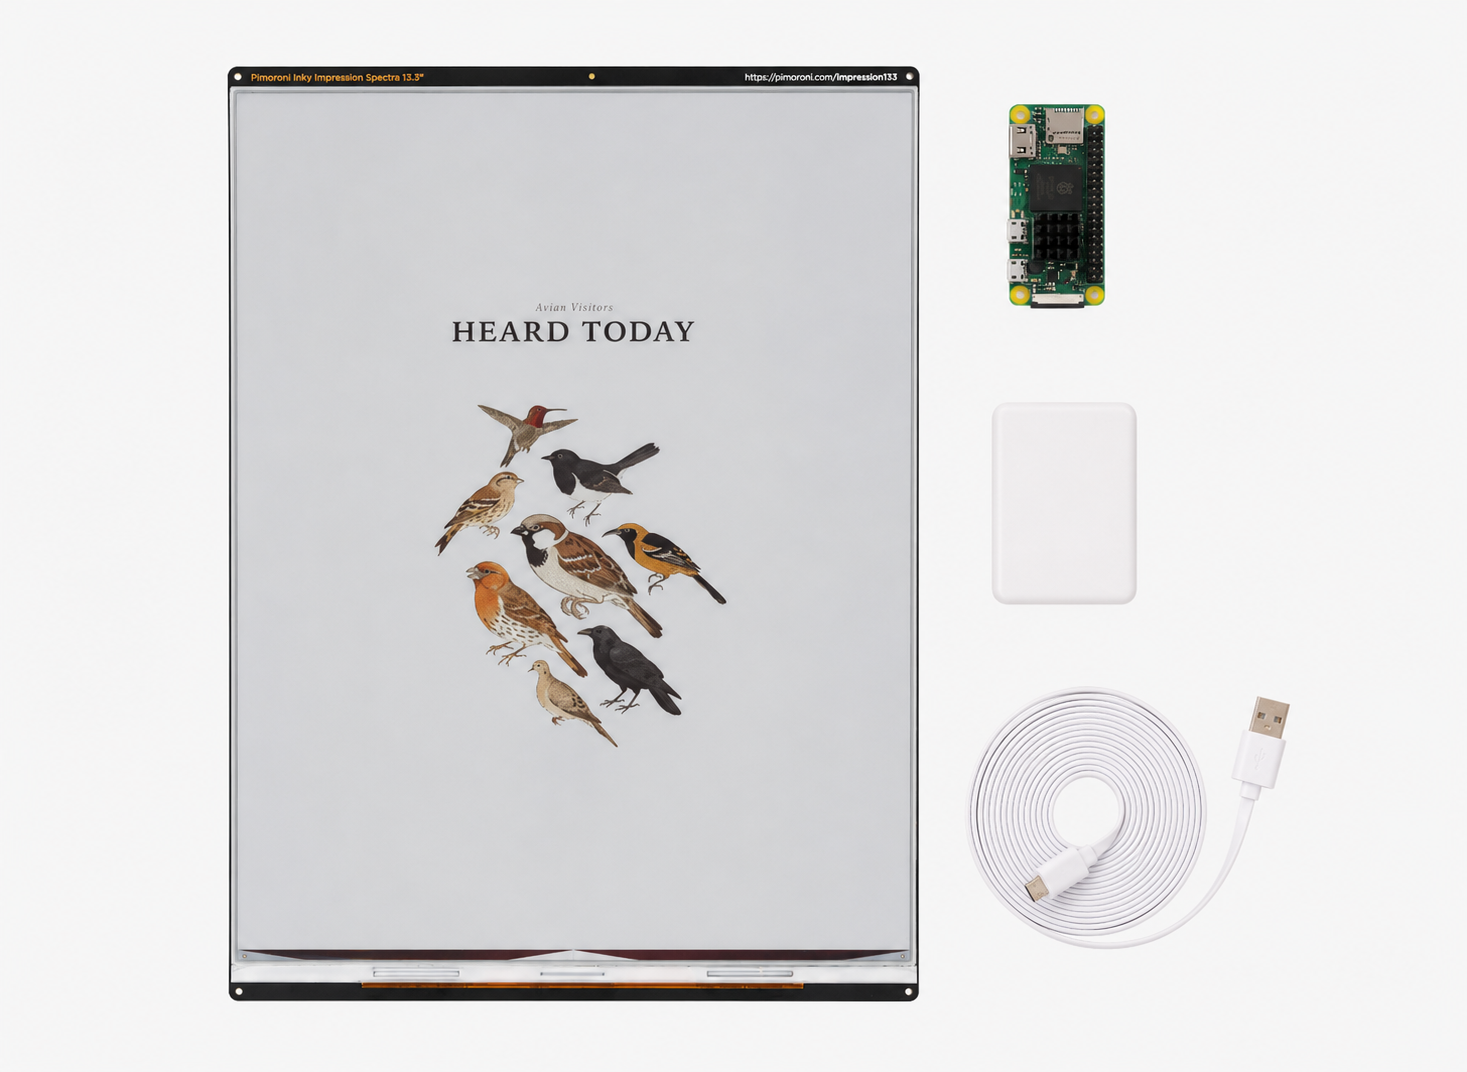
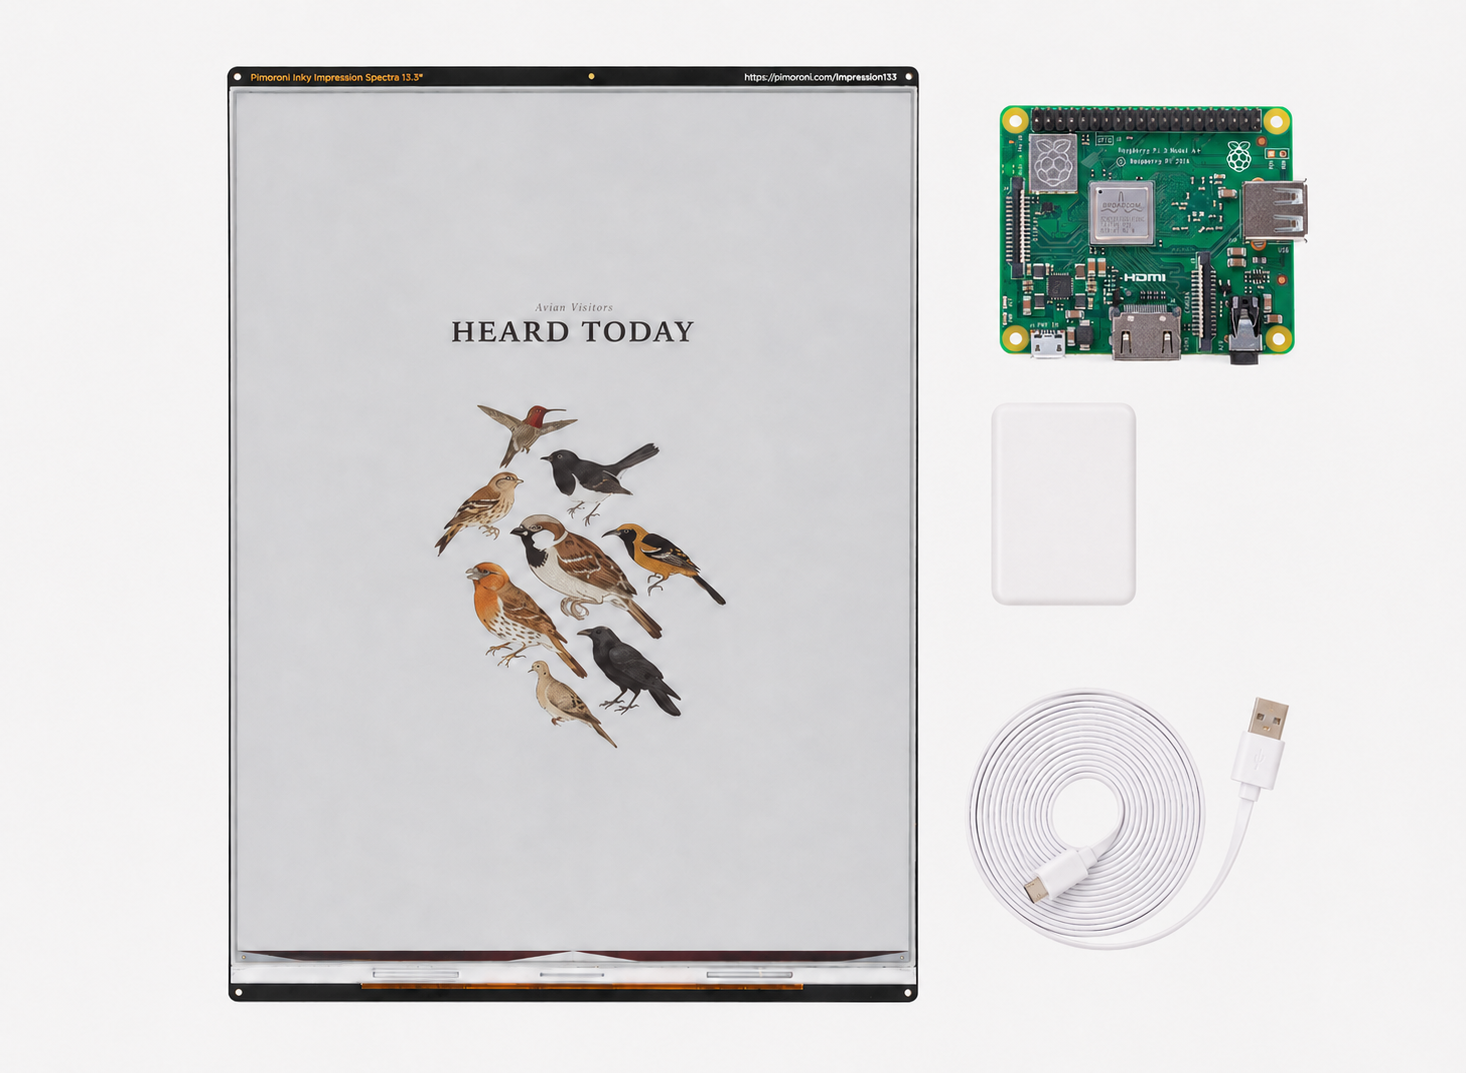
avian: new Pi 3A+ kit photo; quiet shop page (note lives on YouTube); version feed image URLs so Meta refreshes replaced photos

diff --git a/hooks/store_products.py b/hooks/store_products.py
@@ -11,6 +11,7 @@ frontmatter. Read-only: this never writes into the source tree.
 """
 
 import csv
+import hashlib
 import io
 import json
 import os
@@ -95,7 +96,7 @@ def _sellable(v):
     return s in ('available', 'backorder', 'preorder')
 
 
-def _meta_catalog_csv(products, price_field='stripePrice'):
+def _meta_catalog_csv(products, price_field='stripePrice', docs_dir=None):
     """Meta Commerce catalog feed (one row per sellable, priced variant), served at
     /meta-catalog.csv for Commerce Manager's scheduled fetch. Columns are Meta's
     required set. Feed ids must never contain ':' (Meta's checkout URL encodes
@@ -135,6 +136,17 @@ def _meta_catalog_csv(products, price_field='stripePrice'):
             if img:
                 img = str(img)
                 image_link = img if img.startswith('http') else base + img_base + img
+                # Meta caches catalog images by URL, so a replaced photo under the same
+                # filename would never refresh in the shop. Version the URL by content
+                # hash: any image swap yields a new URL and Meta re-downloads on the
+                # next feed fetch.
+                if docs_dir and not img.startswith('http'):
+                    try:
+                        fp = Path(docs_dir) / (img_base + img).lstrip('/')
+                        if fp.exists():
+                            image_link += '?v=' + hashlib.sha1(fp.read_bytes()).hexdigest()[:8]
+                    except Exception:
+                        pass
             title = str(p.get('title', p['id']))
             label = str(v.get('label', v.get('id', '')))
             w.writerow([
@@ -223,7 +235,7 @@ def on_files(files, config):
     files.append(File.generated(config, 'store-catalog.json', content=json.dumps(catalog, ensure_ascii=False)))
     # Meta (Instagram Shop) catalog feed -- same frontmatter source of truth, so
     # prices/availability can never drift from the site (the #1 commerce-review rejection).
-    files.append(File.generated(config, 'meta-catalog.csv', content=_meta_catalog_csv(products, price_field)))
+    files.append(File.generated(config, 'meta-catalog.csv', content=_meta_catalog_csv(products, price_field, config['docs_dir'])))
     return files
 
 

diff --git a/docs/store/avian-visitors.md b/docs/store/avian-visitors.md
@@ -41,7 +41,7 @@ variants:
     stripePriceLive: "price_1TkCJcRPSNpqisAP3ee3eytM"
     desc: All electronics needed for the build, you provide the frame and backing.
     contents:
-      - Raspberry Pi 3 A+*
+      - Raspberry Pi 3 A+
       - 13.3" Spectra 6 E-ink panel
       - microSD card
       - Power cable & brick
@@ -57,7 +57,7 @@ variants:
       - Everything in the Electronics Kit
       - 3D Printed backplate
       - Oak wood frame and mat
-softwareNote: "Hardware only. You install the open-source software on your own device at first setup. *Kits now ship a Raspberry Pi 3 A+ while the Zero 2 W shortage lasts: a drop-in fit in the same backing, more powerful, with 5 GHz Wi-Fi. Setup is identical, just pick Raspberry Pi 3 in the Imager."
+softwareNote: Hardware only. You install the open-source software on your own device at first setup.
 sections:
   - label: Pairs with
     items:
